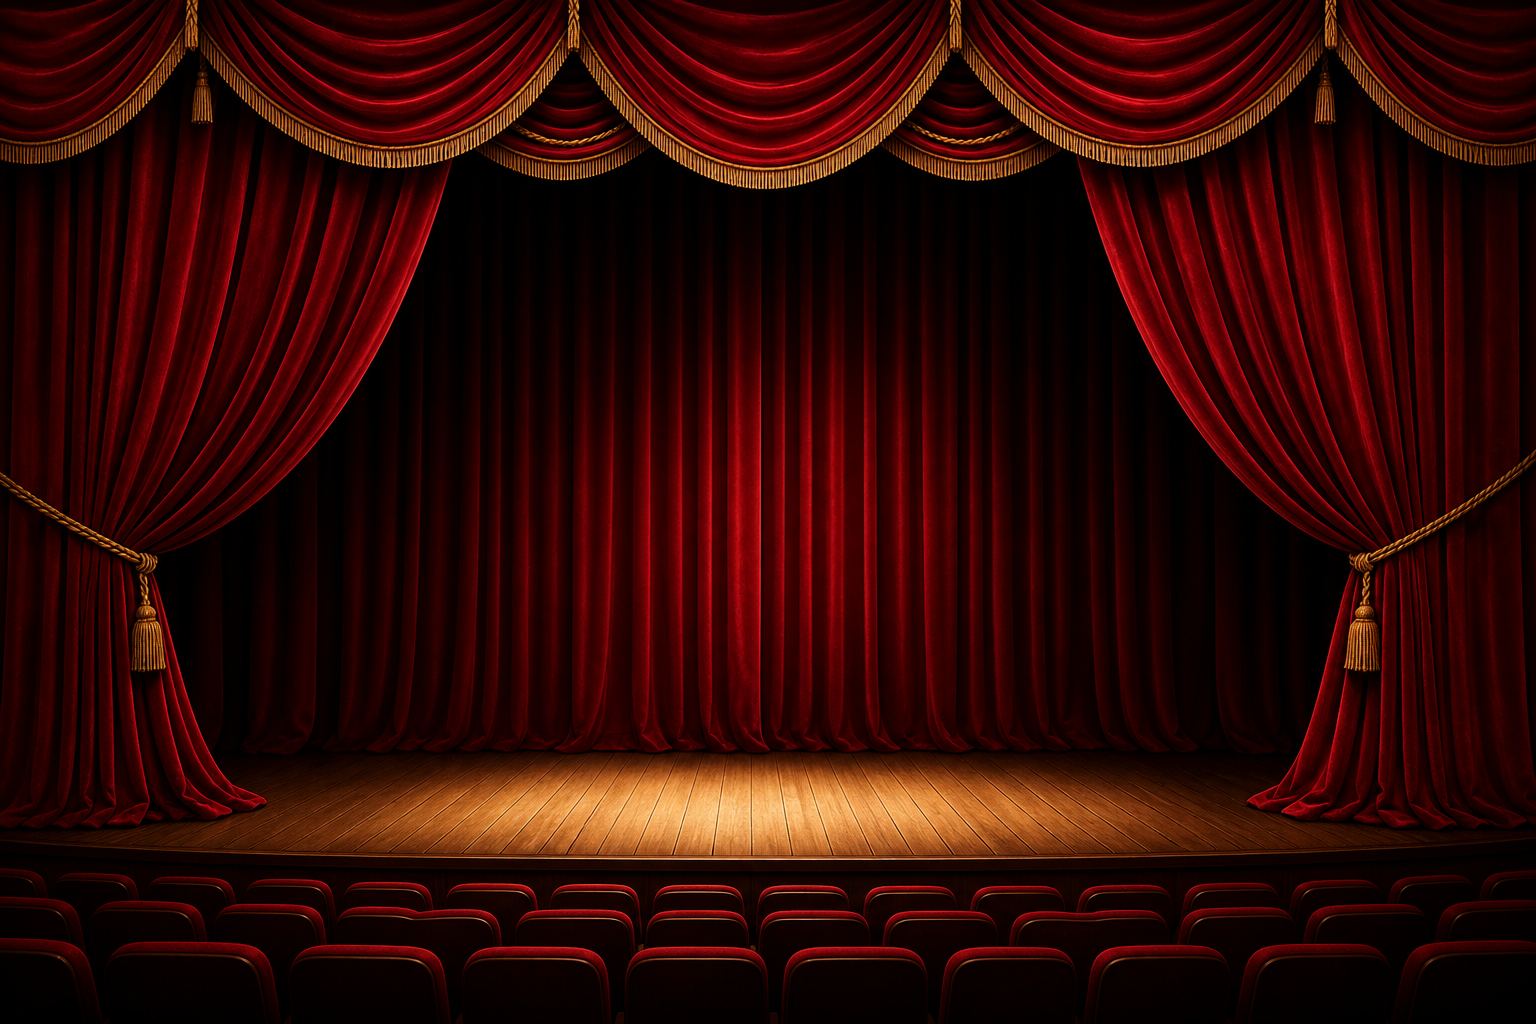
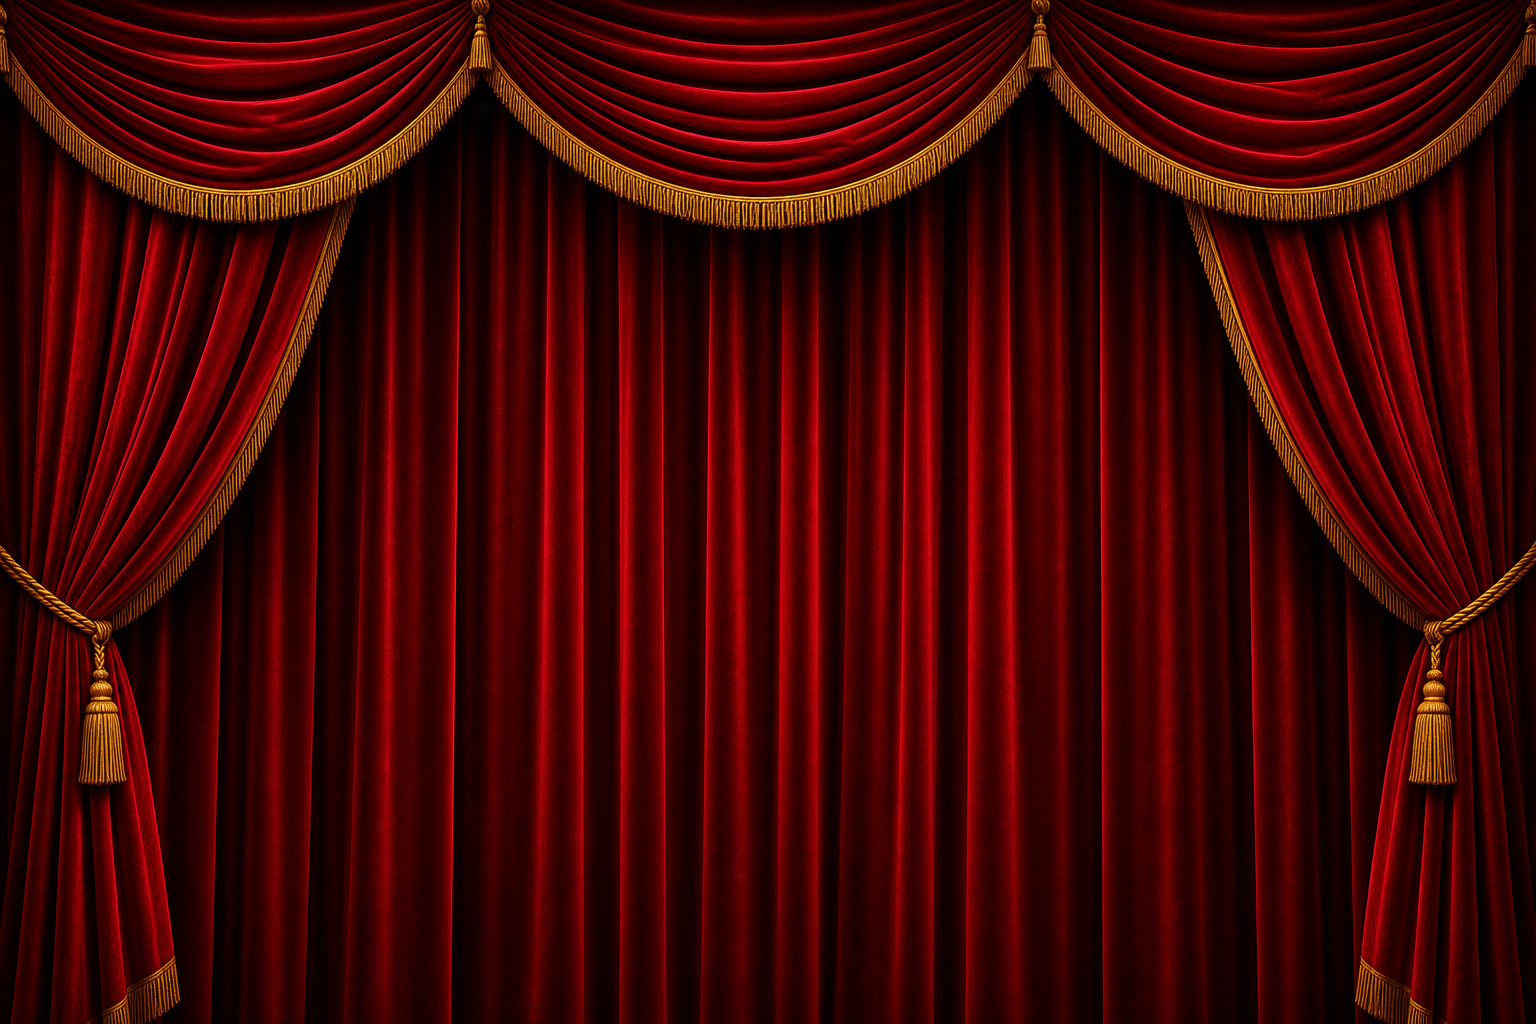
Style transactional emails and curtain background

diff --git a/script.js b/script.js
@@ -64,6 +64,37 @@ const THEATER_LAYOUT_SEATS = SEAT_BLOCKS.length * SEAT_ROWS_PER_BLOCK * SEAT_COL
             .replace(/'/g, '&#39;');
     }
 
+    function buildCineBookEmailHtml(emailLog) {
+        const escapedBody = escapeHtml(emailLog.body || '')
+            .replace(/\n/g, '<br>')
+            .replace(/(^|<br>)([0-9]{6})(<br>|$)/g, '$1<span style="display:inline-block;margin:10px 0;padding:12px 18px;border:1px solid #d6a84f;border-radius:6px;background:#2a0709;color:#f7d77f;font-size:28px;font-weight:800;letter-spacing:6px;">$2</span>$3');
+
+        return `
+            <div style="margin:0;padding:0;background:#080505;">
+                <div style="max-width:640px;margin:0 auto;padding:28px 16px;font-family:Arial,Helvetica,sans-serif;color:#f8ead0;">
+                    <div style="overflow:hidden;border:1px solid rgba(214,168,79,0.45);border-radius:14px;background:#130808;box-shadow:0 18px 46px rgba(0,0,0,0.45);">
+                        <div style="padding:26px 28px;background:linear-gradient(135deg,#7e1018 0%,#2b0608 56%,#080505 100%);border-bottom:1px solid rgba(214,168,79,0.38);">
+                            <div style="font-family:Georgia,'Times New Roman',serif;font-size:30px;font-weight:700;letter-spacing:0.5px;color:#ffe0a3;">CineBook</div>
+                            <div style="margin-top:6px;color:#d8b96b;font-size:13px;text-transform:uppercase;letter-spacing:2px;">Premium Theatre Ticketing</div>
+                        </div>
+                        <div style="padding:28px;background:linear-gradient(180deg,#1a0b0c 0%,#0d0707 100%);">
+                            <h1 style="margin:0 0 18px;font-size:22px;line-height:1.3;color:#fff3d0;">${escapeHtml(emailLog.subject || 'CineBook Notification')}</h1>
+                            <div style="padding:20px;border-left:4px solid #d6a84f;border-radius:8px;background:rgba(255,244,215,0.055);color:#f5e6cb;font-size:15px;line-height:1.65;">
+                                ${escapedBody}
+                            </div>
+                            <div style="margin-top:22px;padding:14px 16px;border-radius:8px;background:rgba(126,16,24,0.32);color:#d7c3a1;font-size:12px;line-height:1.5;">
+                                This message was sent automatically by CineBook. Please keep your booking and payment details for theatre verification.
+                            </div>
+                        </div>
+                        <div style="padding:16px 28px;background:#070505;border-top:1px solid rgba(214,168,79,0.18);color:#9f8b6d;font-size:12px;text-align:center;">
+                            CineBook | Classic cinema reservations and ticketing
+                        </div>
+                    </div>
+                </div>
+            </div>
+        `;
+    }
+
     function getUserEmail(username) {
         const savedEmail = String(localStorage.getItem(LS_EMAIL) || '').trim();
         if (isValidEmail(savedEmail)) return savedEmail;
@@ -93,7 +124,7 @@ const THEATER_LAYOUT_SEATS = SEAT_BLOCKS.length * SEAT_ROWS_PER_BLOCK * SEAT_COL
                     to: emailLog.to,
                     subject: emailLog.subject,
                     text: emailLog.body,
-                    html: `<pre style="font-family: Arial, sans-serif; white-space: pre-wrap; line-height: 1.5;">${escapeHtml(emailLog.body)}</pre>`,
+                    html: buildCineBookEmailHtml(emailLog),
                     type: emailLog.type
                 })
             });